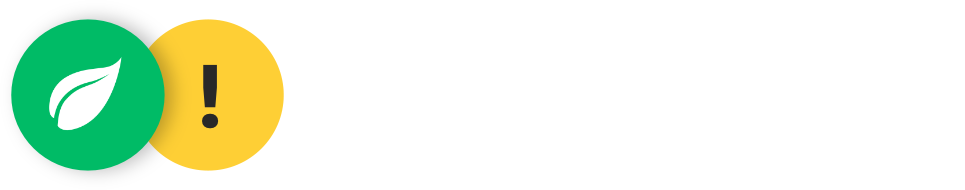
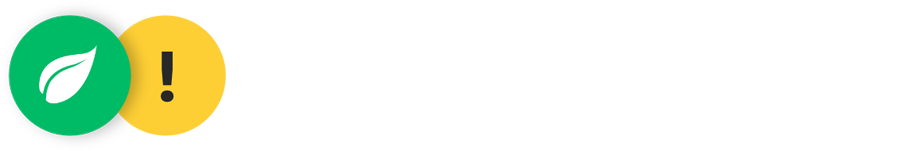
Added content blocks, and images. Made trademark smaller.

Changed region(s): [[0.0, 0.0795, 0.3091, 0.9007], [0.0309, 0.7682, 0.0618, 0.8742]]

diff --git a/index.html b/index.html
@@ -18,7 +18,7 @@
   </head>
   <body>
     <div class='wrapper'>
-      <div class='hero header'>
+      <div class='hero header cover'>
         <div class='nav'>
           <div class='container'>
             <a href='//kellsehands.com' class='trademark'>
@@ -47,13 +47,31 @@
       
       <div class='content'>
         <div class='main'>
-        </div>
-        
-        <div class='aside'>
+          <div class='container'>
+            <div class='row'>
+              <div class='one-half block cover' style='background-image:url(assets/images/windmills.jpg)'>
+                <a href='#'>Enviromental</a>
+              </div>
+              <div class='one-half block cover' style='background-image:url(assets/images/lab.jpg)'>
+                <a href='#'>Labratory</a>
+              </div>
+              <div class='one-half block cover' style='background-image:url(assets/images/safety.jpg)'>
+                <a href='#'>Safety</a>
+              </div>
+              <div class='one-half block cover' style='background-image:url(assets/images/manage.jpg)'>
+                <a href='#'>Management</a>
+              </div>
+            </div>
+          </div>
         </div>
       </div>
     </div>
     
+    <div class='footer'>
+      <div class='container'>
+        &copy; Kell's EH&S. All rights reservered.
+      </div>
+    </div>
     <script async src='assets/scripts/core.js'></script>
   </body>
 </html>

diff --git a/assets/styles/core.css b/assets/styles/core.css
@@ -34,8 +34,26 @@ button:hover,
   background-color: #222529;
   color: #fff;
 }
+.row {
+  padding-left: 5%;
+  overflow: hidden;
+}
+.one-half {
+  width: 45%;
+  margin: 0 5% 5% 0;
+  float: left;
+  display: inline-block;
+  box-sizing: border-box;
+}
+.one-half:last-child {
+  margin-right: 0;
+}
+.cover {
+  background-size: cover;
+  background-position: center;
+  background-repeat: no-repeat;
+}
 .wrapper{
-  width: 80%;
   margin: 0 auto;
 }
 .container {
@@ -81,10 +99,7 @@ button:hover,
 }
 .hero {
   padding-bottom: 150px;
-  background-size: cover;
   background-image: url('../images/hero.jpg');
-  background-repeat: no-repeat;
-  background-position: center;
   background-attachment: fixed;
   text-align: center;
 }
@@ -97,6 +112,30 @@ button:hover,
   color: #fff;
 }
 .content {
-  height: 800px;
+  padding: 5% 0 5% 0;
   background-color: #fff;
+}
+.main .block {
+  height: 400px;
+  border-radius: 4px;
+  background-color: #2b2f35;
+  text-align: center;
+  font-size: 40px;
+  line-height: 400px;
+  color: #fff;
+}
+.main .block a {
+  display: block;
+  transition: all .3s ease;
+  color: inherit;
+}
+.main .block a:hover {
+  background-color: rgba(50,50,50,.5);
+}
+.footer {
+  padding: 50px 0;
+  background-color: #222529;
+  text-align: center;
+  font-size: 14px;
+  color: #999;
 }
